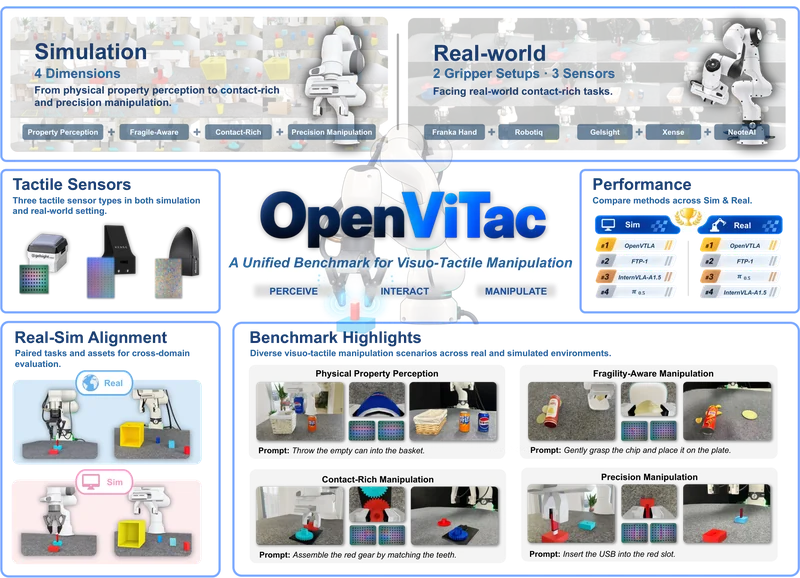
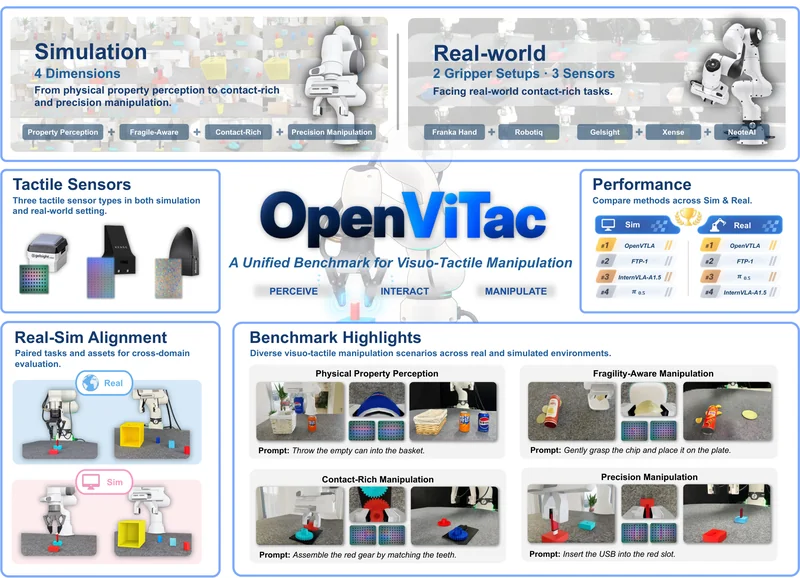
fix(assets): refresh the teaser and preserve its white overlays
Regenerate the PNG and responsive WebP teaser assets from the updated main_teaser.pdf, retaining the full 2000x1446 canvas and 800x578 mobile variant.

Keep the teaser opaque during export so intentional white overlays continue to soften background photos. Document this exception to background removal.

diff --git a/scripts/export-figures.py b/scripts/export-figures.py
@@ -39,7 +39,9 @@ TASKS = {
     "insert_block_v2_p1": "insert_block_v2_part1_figure.pdf",
     "insert_block_v2_p2": "insert_block_v2_part2_figure.pdf",
 }
-OPAQUE_FIGURES = {"tactile_radar", "tactile_design"}
+# The teaser includes intentional white overlays that soften background photos.
+# Keep them intact, along with its white page background.
+OPAQUE_FIGURES = {"teaser", "tactile_radar", "tactile_design"}
 
 
 def transparent_pdf(path):

diff --git a/README.md b/README.md
@@ -97,8 +97,9 @@ The exporter removes large white vector panels and adds transparency to the
 outer white background of flattened task diagrams. Source PDFs, photos, and
 small white details are preserved. Real-sim alignment removes only its page
 background, preserving the white fills inside its Real-World and Simulation
-labels. Tactile design and the radar plot retain their original white backgrounds.
-These three figures use rounded image containers.
+labels. The teaser, tactile design, and radar plot retain their original white
+backgrounds. The teaser also preserves the white overlays that soften its
+background photos. Figure containers have rounded corners.
 
 Capability Taxonomy, Real–Sim Alignment, and Scene Diversity appear together
 as one **Overview of the OpenViTac design** figure, following the manuscript's
